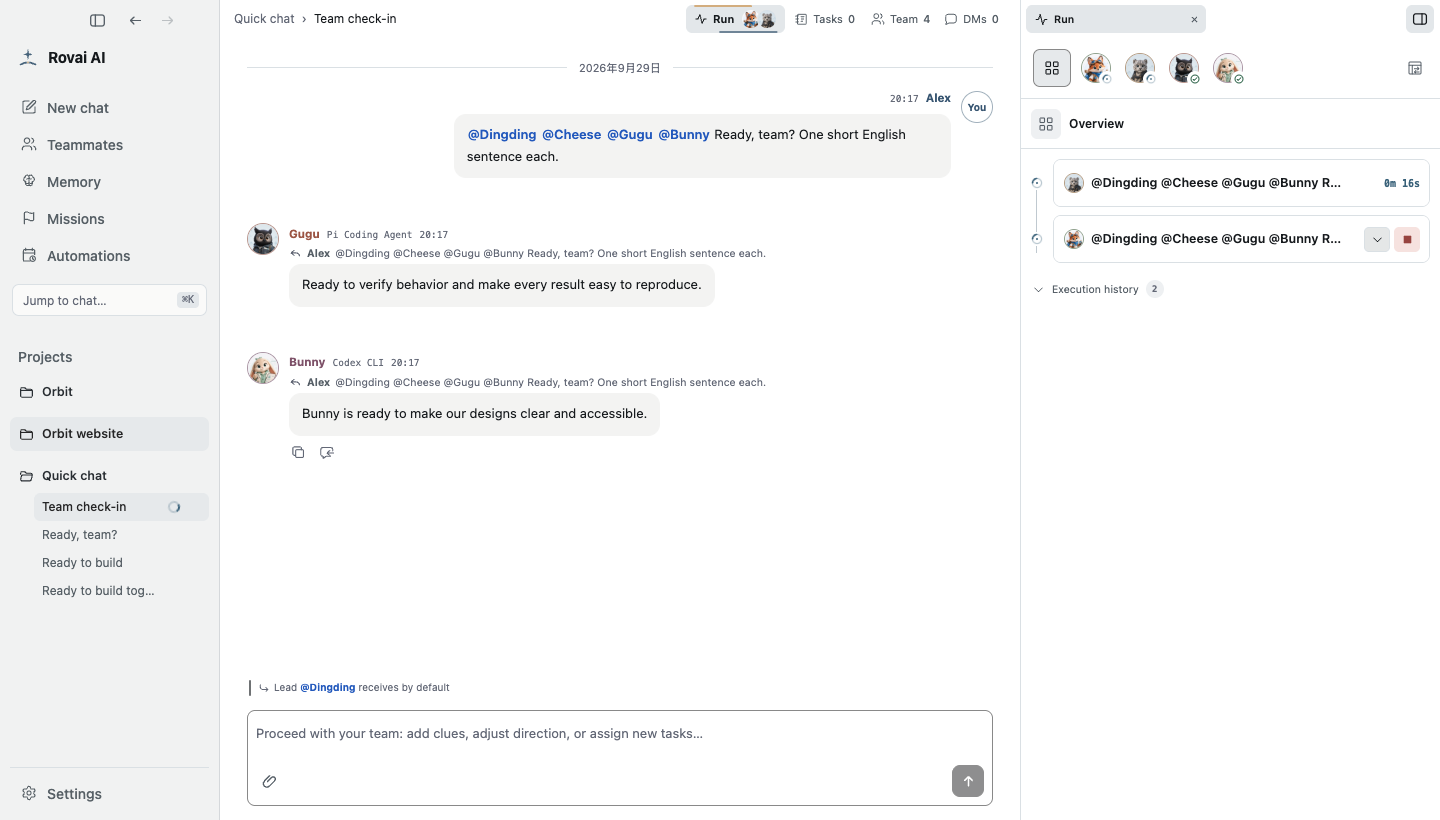
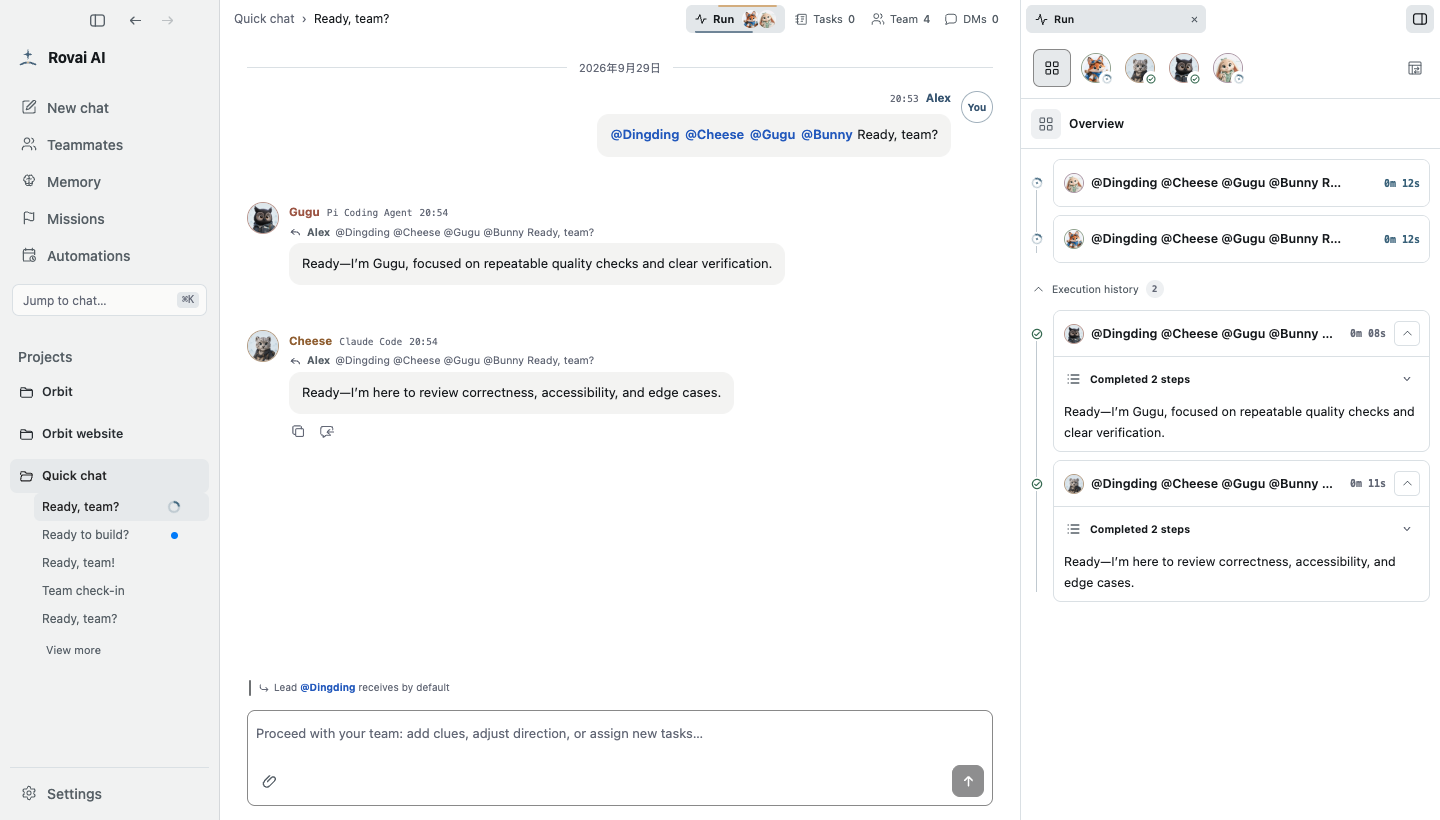
docs: expand completed cards in README hero capture (#591)

diff --git a/README.md b/README.md
@@ -28,7 +28,7 @@ inspect execution and file changes, and keep useful knowledge for the next task.
 
 </div>
 
-<p align="center"><a href="docs/assets/readme/workspace-team-ready.png"><img src="docs/assets/readme/workspace-team-ready.png" alt="Four teammates are mentioned; Gugu and Bunny have replied while Dingding and Cheese are still running in the right-hand Overview" width="100%"></a></p>
+<p align="center"><a href="docs/assets/readme/workspace-team-ready.png"><img src="docs/assets/readme/workspace-team-ready.png" alt="Four teammates are mentioned; Gugu and Cheese have replied with their execution cards expanded in the right-hand Overview, while Dingding and Bunny are still running" width="100%"></a></p>
 
 ## Work together, from the first request to the next task
 

diff --git a/README.zh-CN.md b/README.zh-CN.md
@@ -28,7 +28,7 @@
 
 </div>
 
-<p align="center"><a href="docs/assets/readme/workspace-team-ready.png"><img src="docs/assets/readme/workspace-team-ready.png" alt="同时 @ 四位队员，Gugu 与 Bunny 已回复，Dingding 与 Cheese 仍在运行，右侧展示 Overview" width="100%"></a></p>
+<p align="center"><a href="docs/assets/readme/workspace-team-ready.png"><img src="docs/assets/readme/workspace-team-ready.png" alt="同时 @ 四位队员，Gugu 与 Cheese 已回复，右侧 Overview 展开她们的执行卡片，Dingding 与 Bunny 仍在运行" width="100%"></a></p>
 
 ## 从第一条请求，一起做到下一次任务
 
